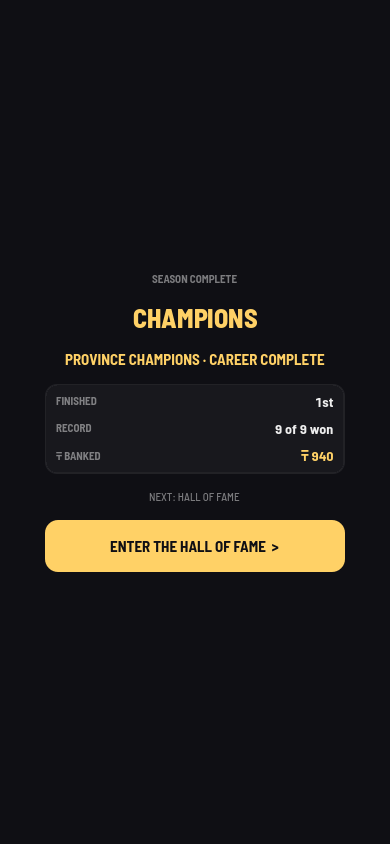
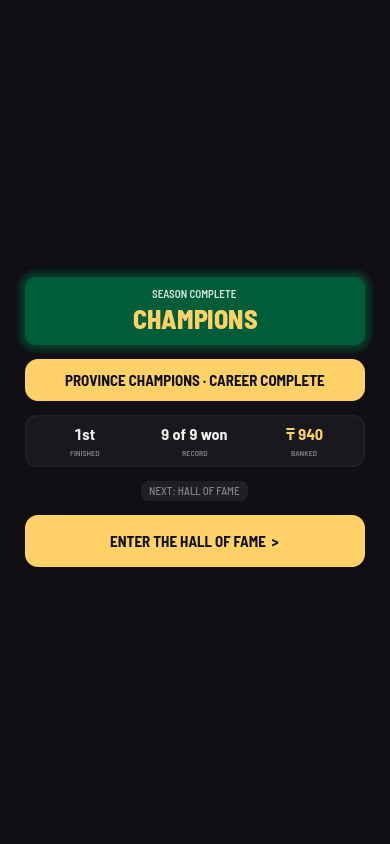
tools: Outcome preview country variant + hi-fi renders
CTRY=aus renders the promoted state on the AUS palette. Eyeball round: dropped the duplicate CAREER COMPLETE sub-line on the champion strip (spec DO2 amended). Renders overwrite the same v1 paths.

Changed region(s): [[0.0308, 0.3081, 0.9538, 0.6777]]

diff --git a/docs/superpowers/specs/2026-07-03-outcome-hifi-design.md b/docs/superpowers/specs/2026-07-03-outcome-hifi-design.md
@@ -32,8 +32,8 @@ this screen, its deltas land as a follow-on — same path the hub/in-match took.
 2. **Transition strip** — the career-consequence line, styled by weight (DO2):
    - `promoted` / `complete` (champion): **gold celebration panel**
      (`UIStyle.cta(Palette.GOLD)`, dark text) — the Result screen's champion-panel
-     idiom. Two lines: the banner text + a small sub (`YOUR CAREER MOVES UP` /
-     `CAREER COMPLETE`).
+     idiom. On promotion a small sub-line `YOUR CAREER MOVES UP`; on complete the
+     banner text already says it (no sub — eyeball round found the duplicate).
    - cleared / moved down / signed: plain `UIStyle.panel()` strip, white text.
    - missed: same strip, dim text.
    Banner *wording* is unchanged from PR #101/#104 (tests pin it).
